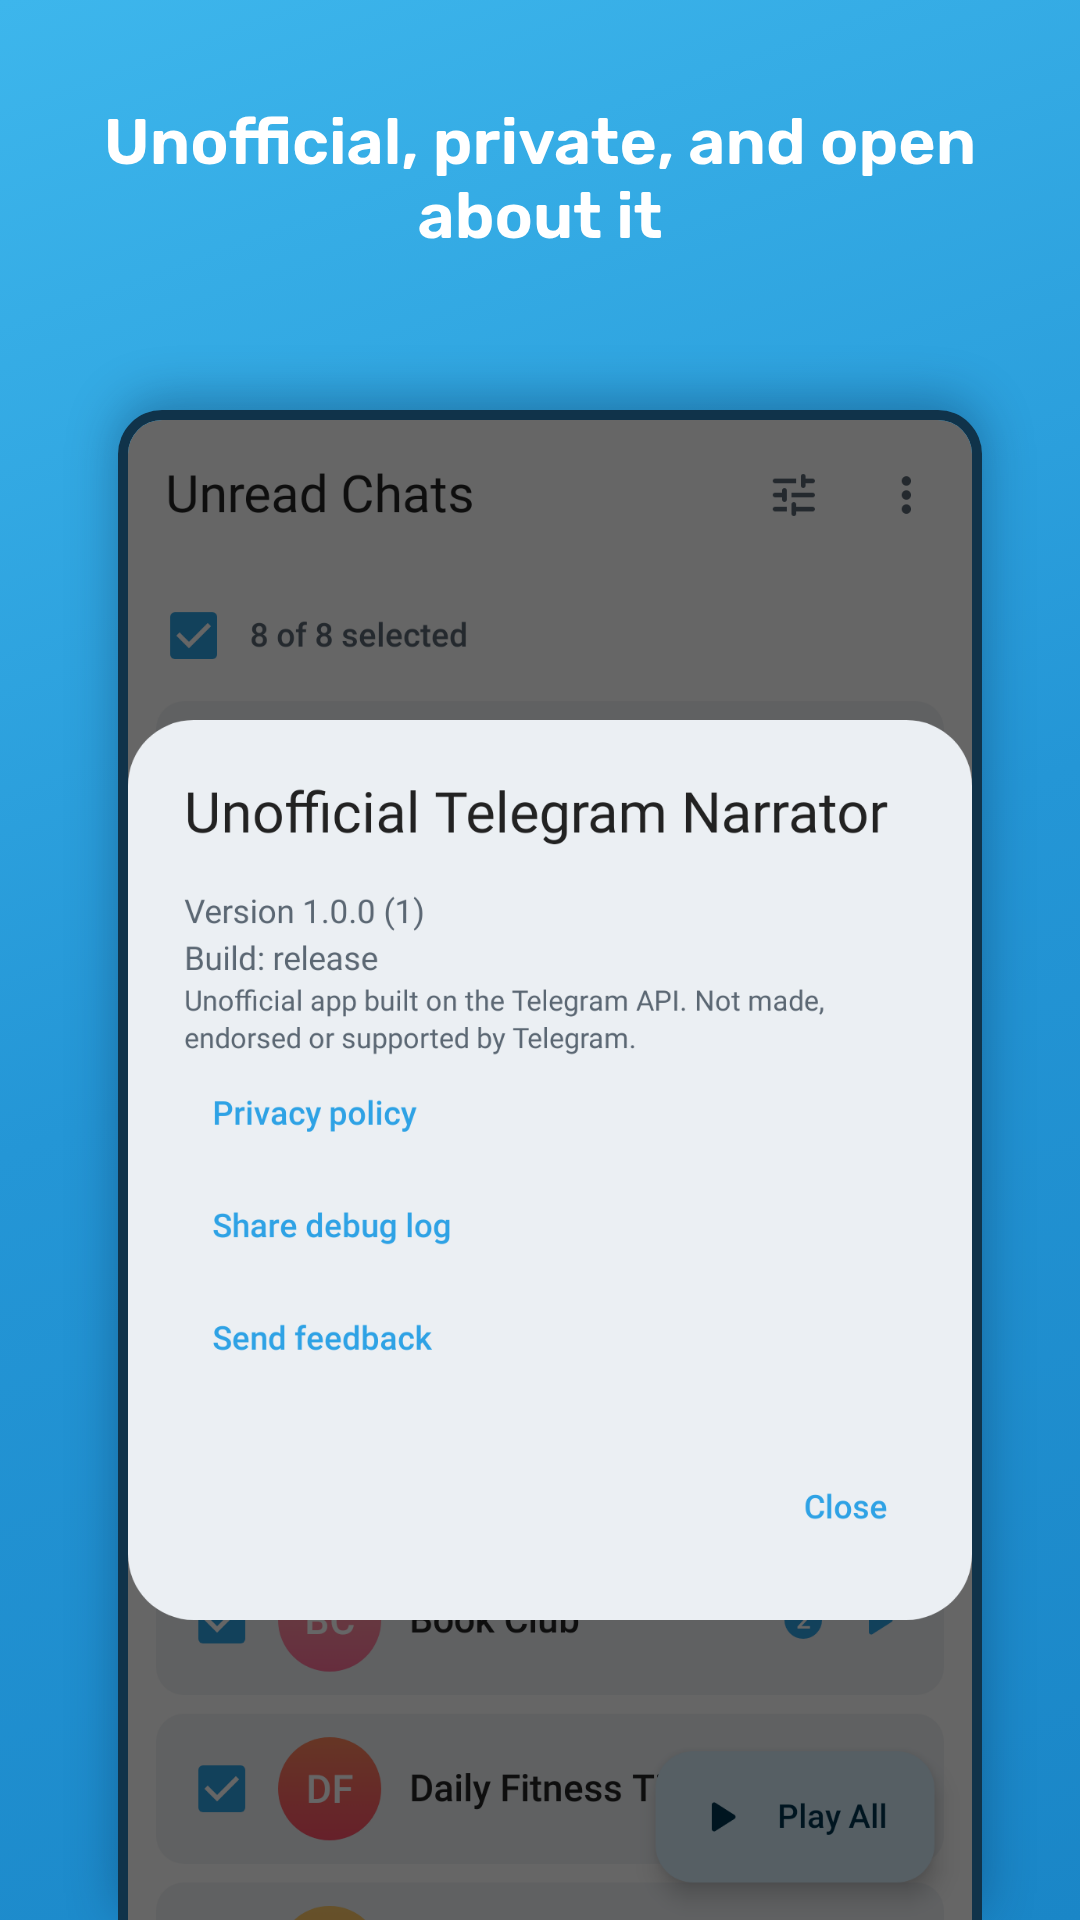
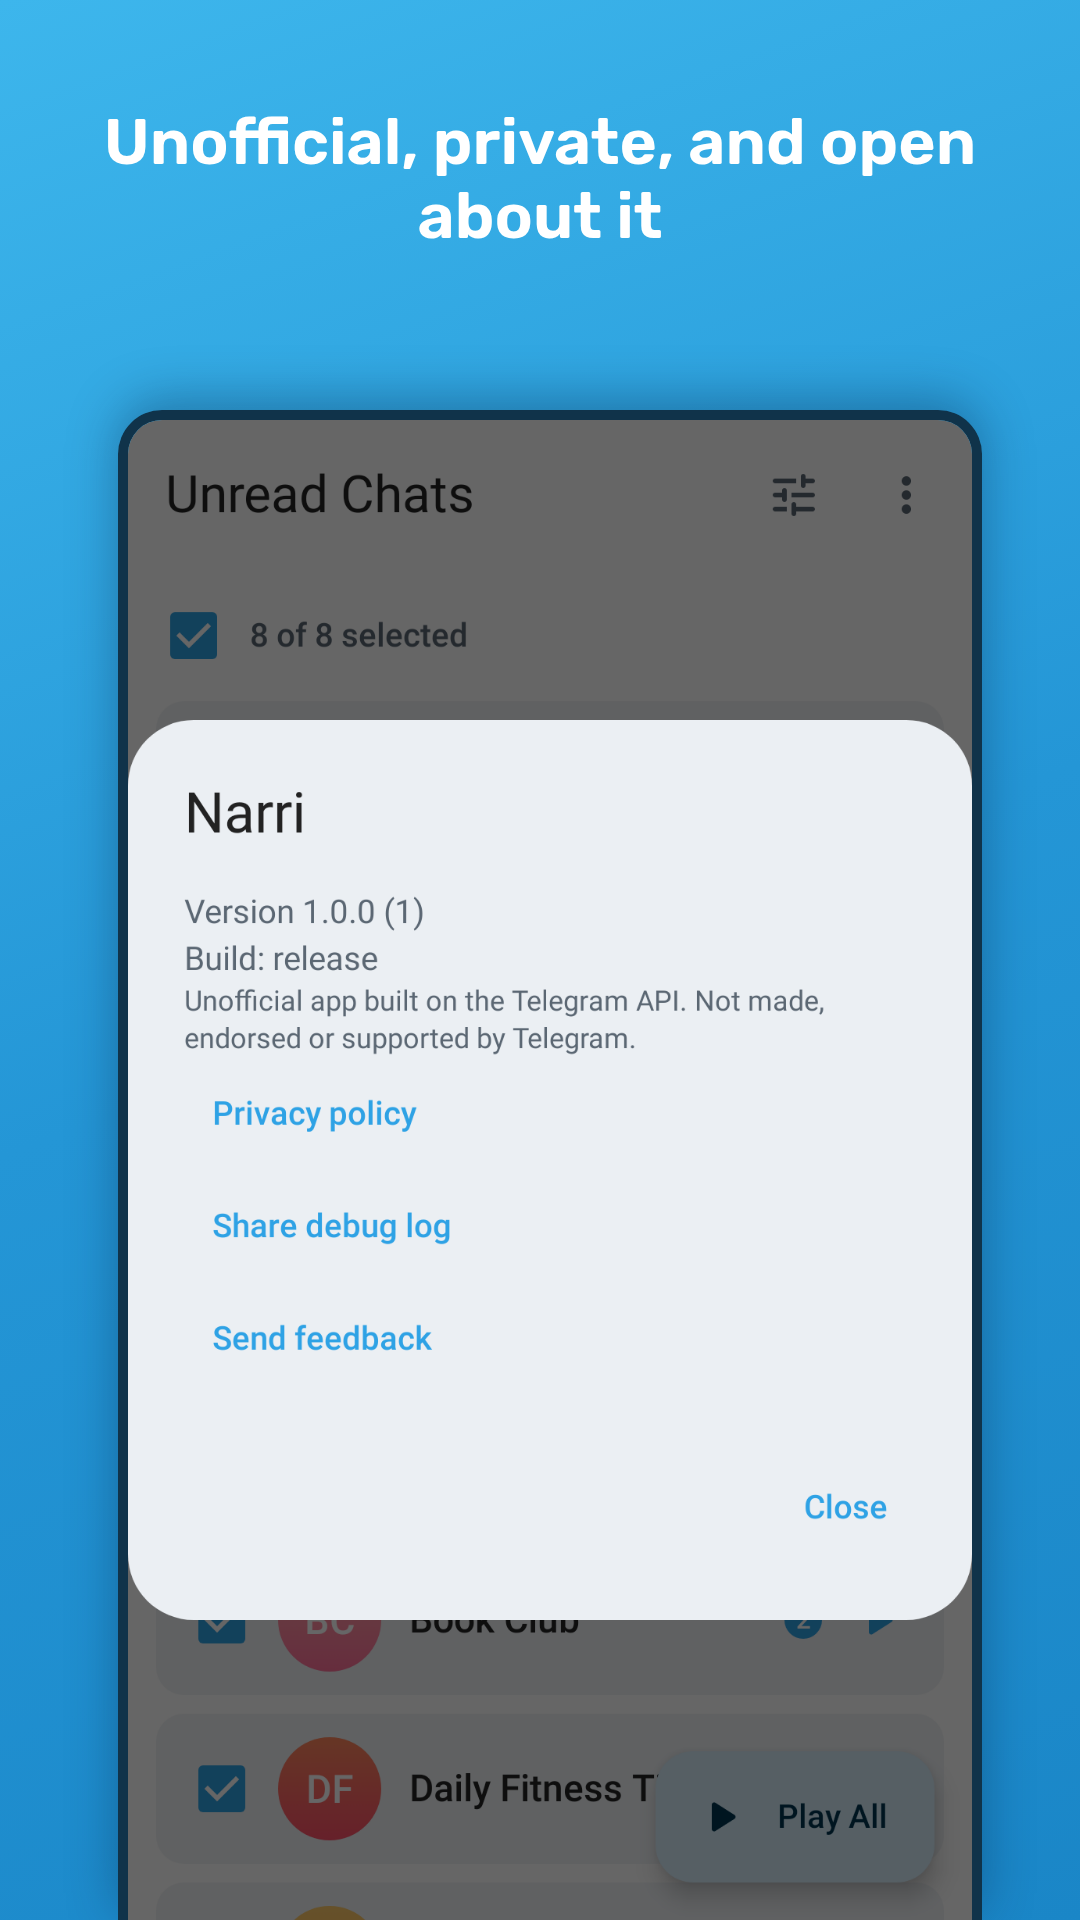
Rename app to Narri (Play title: Narri: Unofficial Telegram Reader) (#107)

Changed region(s): [[0.1833, 0.4062, 0.825, 0.4375]]

diff --git a/app/src/main/java/io/github/yedidyatob/telegramnarrator/core/service/AutoBrowseTree.kt b/app/src/main/java/io/github/yedidyatob/telegramnarrator/core/service/AutoBrowseTree.kt
@@ -5,7 +5,7 @@ import io.github.yedidyatob.telegramnarrator.domain.model.Chat
 /**
  * The Android Auto browse tree (#41), as pure ids (unit-tested): root -> "Play all unread" (first row, with
  * an icon) + one playable node per unread chat, exactly the Home list (same filter, same order, no cap).
- * Auto's own Play control (playback resumption) and voice ("play Telegram Narrator") also play all. Playing a node reads the same narration as
+ * Auto's own Play control (playback resumption) and voice ("play Narri") also play all. Playing a node reads the same narration as
  * the app (titles, dings, sponsored messages), so nothing here plays audio itself.
  */
 object AutoBrowseTree {
@@ -81,7 +81,7 @@ object AutoBrowseTree {
     }
 
     /**
-     * Voice search ("play News on Telegram Narrator"): the unread chat whose title best matches [query]
+     * Voice search ("play News on Narri"): the unread chat whose title best matches [query]
      * (exact, then prefix, then contains, case-insensitive); all unread for a blank query or no match.
      */
     fun chatsForSearch(query: String?, unread: List<Chat>): List<Long> {

diff --git a/app/src/main/java/io/github/yedidyatob/telegramnarrator/core/service/PlaybackSession.kt b/app/src/main/java/io/github/yedidyatob/telegramnarrator/core/service/PlaybackSession.kt
@@ -127,7 +127,7 @@ class PlaybackSession(
 
         /**
          * Android Auto's own Play control (media card / mini player / steering wheel) with nothing loaded, and
-         * "Hey Google, play Telegram Narrator": read all unread chats, the app's Play all. Only for this app and
+         * "Hey Google, play Narri": read all unread chats, the app's Play all. Only for this app and
          * Auto, and only for an actual playback request: a car's Bluetooth auto-play on connect (a platform
          * controller) or System UI's resumption card never starts reading on its own.
          */

diff --git a/app/src/main/java/io/github/yedidyatob/telegramnarrator/ui/screens/auth/LoginScreen.kt b/app/src/main/java/io/github/yedidyatob/telegramnarrator/ui/screens/auth/LoginScreen.kt
@@ -233,7 +233,7 @@ internal fun LoginStepFrame(
     input: @Composable () -> Unit
 ) {
     Column(horizontalAlignment = Alignment.CenterHorizontally) {
-        // Centered: the app name ("Unofficial Telegram Narrator") can wrap to two lines
+        // Centered: the app name ("Narri") can wrap to two lines
         Text(
             title,
             style = MaterialTheme.typography.headlineLarge,

diff --git a/tools/icon/generate_icon.py b/tools/icon/generate_icon.py
@@ -117,7 +117,7 @@ def main():
         small = f'<svg x="22" y="30" width="28" height="28" viewBox="27 27 54 54"><path transform="translate(0,0)" fill="#5f6368" fill-rule="evenodd" d="{GLYPH}"/></svg>'
         large = f'<svg x="560" y="56" width="120" height="120" viewBox="18 18 72 72"><clipPath id="c"><circle cx="54" cy="54" r="36"/></clipPath><g clip-path="url(#c)"><defs><linearGradient id="g2" x1="0" y1="0" x2="0" y2="1"><stop offset="0" stop-color="{BLUE_TOP}"/><stop offset="1" stop-color="{BLUE_BOTTOM}"/></linearGradient></defs><rect width="108" height="108" fill="url(#g2)"/><path transform="translate(0,{GLYPH_DY}) translate(54,54) scale({GLYPH_SCALE}) translate(-54,-54)" fill="#fff" fill-rule="evenodd" d="{GLYPH}"/><path fill="#fff" fill-rule="evenodd" d="{RIBBON} {TEXT}"/></g></svg>'
         return (f'<svg xmlns="http://www.w3.org/2000/svg" width="720" height="260"><rect width="720" height="260" rx="28" fill="#F1F3F4"/>{small}'
-                f'<text x="60" y="50" font-family="sans-serif" font-size="20" fill="#5f6368">Telegram Narrator · Reading</text>'
+                f'<text x="60" y="50" font-family="sans-serif" font-size="20" fill="#5f6368">Narri · Reading</text>'
                 f'<text x="24" y="104" font-family="sans-serif" font-size="30" font-weight="bold" fill="#202124">News chat</text>'
                 f'<text x="24" y="140" font-family="sans-serif" font-size="24" fill="#5f6368">From Dana</text>{large}'
                 f'<g fill="#202124"><rect x="40" y="196" width="22" height="22" rx="3"/><polygon points="170,190 196,207 170,224"/>'

diff --git a/tools/play-assets/generate_store_graphics.py b/tools/play-assets/generate_store_graphics.py
@@ -55,12 +55,14 @@ body{{margin:0;width:1024px;height:500px;overflow:hidden;font-family:'Rubik','No
 svg.bg{{position:absolute;left:0;top:0}}
 .row{{position:absolute;inset:0;display:flex;align-items:center;gap:56px;padding:0 72px}}
 .icon{{flex:none;filter:drop-shadow(0 18px 30px rgba(0,40,80,.35));border-radius:64px;line-height:0}}
-h1{{margin:0;font-size:58px;font-weight:700;line-height:1.08;letter-spacing:-.5px}}
+h1{{margin:0;font-size:84px;font-weight:700;line-height:1.08;letter-spacing:-.5px}}
+.kicker{{margin-top:8px;font-size:28px;font-weight:500;opacity:.85}}
 .tag{{margin-top:22px;white-space:nowrap;font-size:{38 if rtl else 32}px;font-weight:500;opacity:.97}}
 .sub{{margin-top:10px;font-size:26px;font-weight:400;opacity:.8}}
 </style></head><body><svg class="bg" width="1024" height="500">{waves}</svg>
 <div class="row"><div class="icon">{icon_svg(300, rounded=64)}</div>
-<div><h1 dir="ltr" style="text-align:{'right' if rtl else 'left'}">Unofficial<br>Telegram Narrator</h1>
+<div><h1 dir="ltr" style="text-align:{'right' if rtl else 'left'}">Narri</h1>
+<div class="kicker" dir="ltr" style="text-align:{'right' if rtl else 'left'}">Unofficial Telegram Reader</div>
 <div class="tag">{tag}</div><div class="sub">{sub}</div></div></div></body></html>"""
 
 

diff --git a/docs/play-data-safety.md b/docs/play-data-safety.md
@@ -85,7 +85,7 @@ merged manifest.
 
 Play Console → App content → Foreground service permissions → **Media playback**:
 
-> Unofficial Telegram Narrator reads the user's unread Telegram messages aloud with text-to-speech and plays
+> Narri reads the user's unread Telegram messages aloud with text-to-speech and plays
 > their voice messages. Playback only starts when the user taps Play (or Play all) in the app. It must continue
 > when the user turns off the screen or switches to another app, for example while walking or driving, with
 > pause / skip / stop controls in the media notification, on the lock screen and on headset buttons. If the
@@ -117,7 +117,7 @@ Suggested text (option 2):
 
 ## Store listing draft
 
-**App name** (30 max): `Unofficial Telegram Narrator` (28). Use the same title in every language: Telegram's
+**App name** (30 max): `Narri: Unofficial Telegram Reader` (33: **over Play's 30-character limit**; if Play Console rejects it, shorten to e.g. `Narri - Unofficial Telegram` (27)). The launcher name (`app_name`) is just `Narri`. Use the same title in every language: Telegram's
 terms allow "Telegram" in a title only when preceded by "Unofficial", which does not work with Hebrew word order.
 
 **Category:** Communication (alternative: Productivity). **Tags:** text to speech, messaging, accessibility.
@@ -137,7 +137,7 @@ Your unread Telegram messages, read aloud. Unofficial app. No tracking.
 **Full description:**
 
 ```
-Unofficial Telegram Narrator reads your unread Telegram chats aloud, one message after another, so you can catch up hands-free while walking, driving or cooking.
+Narri is an unofficial Telegram client, not affiliated with Telegram. It reads your unread Telegram chats aloud, one message after another, so you can catch up hands-free while walking, driving or cooking.
 
 This is an unofficial app. It uses the Telegram API and is part of the Telegram ecosystem, but it is not made, endorsed or supported by Telegram. You log in with your own Telegram account.
 
@@ -176,7 +176,7 @@ Privacy policy: [PRIVACY POLICY URL]
 **Full description:**
 
 ```
-Unofficial Telegram Narrator מקריאה בקול את הצ'אטים שלא קראת בטלגרם, הודעה אחרי הודעה, כדי שתוכלו להתעדכן בלי ידיים – בהליכה, בנהיגה או במטבח.
+Narri מקריאה בקול את הצ'אטים שלא קראת בטלגרם, הודעה אחרי הודעה, כדי שתוכלו להתעדכן בלי ידיים – בהליכה, בנהיגה או במטבח.
 
 זו אפליקציה לא רשמית. היא משתמשת ב־API של Telegram והיא חלק מהאקוסיסטם של Telegram, אך היא לא פותחה, לא אושרה ולא נתמכת על ידי Telegram. ההתחברות היא עם חשבון הטלגרם שלכם.
 
@@ -233,7 +233,7 @@ Source: <https://core.telegram.org/api/terms>. Status of this commit:
 | 1.5 No use of Telegram data for AI training | OK | Nothing is used for training. The Edge (default) and OpenAI engines only synthesize speech (inference) for the messages being read; the OpenAI API does not train on API data by default |
 | 2.1 Own `api_id` | **Action** | Use an `api_id` registered at my.telegram.org for this app (title/description there should describe this app), only in `local.properties` / CI secrets |
 | 2.2 Say prominently that the app uses the Telegram API (store description + in-app intro) | OK | Second paragraph of the store descriptions above; notice in the first-run introduction, on the login screen and in *Voice settings → About* |
-| 2.3 Title must not contain "Telegram" unless preceded by "Unofficial" | OK (fixed) | Display name changed from "Telegram Narrator" (non-compliant) to "Unofficial Telegram Narrator". Alternatives without the word: "Chat Narrator", "Unread Aloud", "Narrator for chats" |
+| 2.3 Title must not contain "Telegram" unless preceded by "Unofficial" | OK (fixed) | Launcher name is "Narri" (no "Telegram"); Play title "Narri: Unofficial Telegram Reader" has "Telegram" preceded by "Unofficial". Formerly "Unofficial Telegram Narrator" |
 | 2.4 No official Telegram logo | OK | Own icon (white ring on purple). Do not use the paper plane in store graphics or screenshots' frames |
 | 3.1 / 3.2 Monetization disclosed in store descriptions | OK | No monetization by the developer. Telegram's sponsored messages (3.3) are Telegram's, not the app's; the store descriptions still mention them. If you ever add your own monetization, list every method in the store descriptions |
 | 3.3 Apps that show channel content must support official sponsored messages | OK | Channels and bot chats: `getChatSponsoredMessages` (5-minute cache) when the chat is played or its preview opened. After the chat's last unread message the ad is read aloud ("Sponsored" / "ממומן", or "Recommended" / "מומלץ", then title and text) and shown as a card (label, accent color, sponsor photo, title, text, media, button; confirmation before non-Telegram links; ⋮ Sponsor info / About these ads / Report with Telegram's option flow); it is also at the bottom of the chat's preview sheet. Views through `viewMessages` (TDLib 1.8.56 has no `viewSponsoredMessage`), at most once per ad per fetch, when read aloud in full or fully on screen; clicks via `clickChatSponsoredMessage`; reports via `reportChatSponsoredMessage`. Channel cleaning rules never touch it. See [architecture.md](architecture.md#sponsored-messages) |

diff --git a/docs/publishing.md b/docs/publishing.md
@@ -12,7 +12,7 @@ How to build, sign, version and publish the app on Google Play. Companion docs:
 |---|---|---|
 | `applicationId` | `io.github.yedidyatob.telegramnarrator` | **Permanent.** Play never allows it to change after the first upload. |
 | Kotlin `namespace` / package | `io.github.yedidyatob.telegramnarrator` | Can be refactored later without affecting users; kept equal to the ID. |
-| Display name | `Unofficial Telegram Narrator` (`app_name`) | Telegram API ToS 2.3: the title may only contain "Telegram" when preceded by "Unofficial". See [play-data-safety.md](play-data-safety.md#telegram-api-terms-of-service-checklist). |
+| Display name | `Narri` (`app_name`, launcher label); Play title `Narri: Unofficial Telegram Reader` | Telegram API ToS 2.3: the title may only contain "Telegram" when preceded by "Unofficial". See [play-data-safety.md](play-data-safety.md#telegram-api-terms-of-service-checklist). |
 | `minSdk` / `targetSdk` / `compileSdk` | 26 / 36 / 36 | Play requires `targetSdk` 36 for new apps and updates since Aug 31, 2026. |
 
 > The `applicationId` replaced the old placeholder ID used by earlier builds, so the new build is a **different app**:
@@ -131,7 +131,7 @@ Play usually picks it up from the AAB automatically.
 ## 5. Play Console: first release
 
 1. Create a developer account (personal) and verify your identity.
-2. **Create app**: name `Unofficial Telegram Narrator`, default language English (en-US), App, Free.
+2. **Create app**: name `Narri: Unofficial Telegram Reader` (see the 30-character note in [play-data-safety.md](play-data-safety.md#store-listing-draft)), default language English (en-US), App, Free.
 3. **App content** (Policy → App content):
    - *Privacy policy*: `https://yedidyatob.github.io/TelegramNarrator/privacy-policy.html`, the hosted
      [privacy-policy.md](privacy-policy.md) (see §7). It must be the same URL as the in-app link

diff --git a/docs/privacy-policy.md b/docs/privacy-policy.md
@@ -1,8 +1,8 @@
-# Privacy Policy: Unofficial Telegram Narrator
+# Privacy Policy: Narri
 
 _Last updated: October 6, 2026_
 
-Unofficial Telegram Narrator ("the app") is an Android app, developed by Yedidya Toberman ("I", "me"), that reads
+Narri ("the app") is an Android app, developed by Yedidya Toberman ("I", "me"), that reads
 your unread Telegram messages aloud. This policy explains what data the app handles, where it goes, and how you
 can delete it.
 
@@ -122,7 +122,7 @@ Telegram database and the Gemini key are encrypted as described above.
 - **Log out** (in the ⋮ menu of the main screen) ends the app's Telegram session and deletes the Telegram database
   (session, chats and cached messages) from your device. It also deletes the cached Edge and Gemini audio.
 - **Remove key** in the voice settings deletes your Gemini API key.
-- **Clear storage** (Android Settings → Apps → Unofficial Telegram Narrator → Storage) or **uninstalling** the
+- **Clear storage** (Android Settings → Apps → Narri → Storage) or **uninstalling** the
   app deletes everything the app stored on your device, including settings and the audio cache.
 - Data held by Telegram (your account and messages) is managed in Telegram; see Telegram's Privacy Policy. You
   can also end this app's session from another Telegram app under *Settings → Devices*.

diff --git a/docs/languages.md b/docs/languages.md
@@ -19,7 +19,7 @@
 
 **Spoken extras:** the sponsored cue ("Sponsored" / "Recommended") is spoken in the chat language for the ✓ languages and in English otherwise. Chat titles are read with the chat's voice.
 
-**App UI:** English and Hebrew (full translation). The per-app language can be set in Android 13+ Settings → Apps → Telegram Narrator → Language (`localeConfig` generated from `values-*`).
+**App UI:** English and Hebrew (full translation). The per-app language can be set in Android 13+ Settings → Apps → Narri → Language (`localeConfig` generated from `values-*`).
 
 ## Edge voice map
 Generated by `tools/edge/generate_voice_map.py` from Edge's voice list into `EdgeVoiceMap.kt`.

diff --git a/README.md b/README.md
@@ -1,6 +1,6 @@
-# Telegram Narrator
+# Narri (Unofficial Telegram Reader)
 
-**Unofficial Telegram Narrator** (the app's display name) is an Android app that reads your **unread Telegram messages aloud** (text-to-speech), with a focus on
+**Narri** (the app's display name) is an Android app that reads your **unread Telegram messages aloud** (text-to-speech), with a focus on
 Hebrew and mixed Hebrew/English channels. It logs in with your own Telegram account through
 [TDLib](https://core.telegram.org/tdlib), lists the chats with unread messages, and plays them one after
 another; messages are marked as read in Telegram only after they were actually spoken.

diff --git a/docs/architecture.md b/docs/architecture.md
@@ -1,6 +1,6 @@
 # Architecture
 
-This document describes how Telegram Narrator is **actually built today** and the **target architecture** it
+This document describes how Narri is **actually built today** and the **target architecture** it
 is moving towards. It replaces the original design spec (`TelegramReader_TDLib_Architecture.md`), which
 described components that were never built (`TtsRepository`, DataStore-backed preferences, "Encrypted File
 Storage", a use-case layer; the Onboarding and Player screens came later with #20) and claimed an encrypted TDLib database long before #15 added one.
